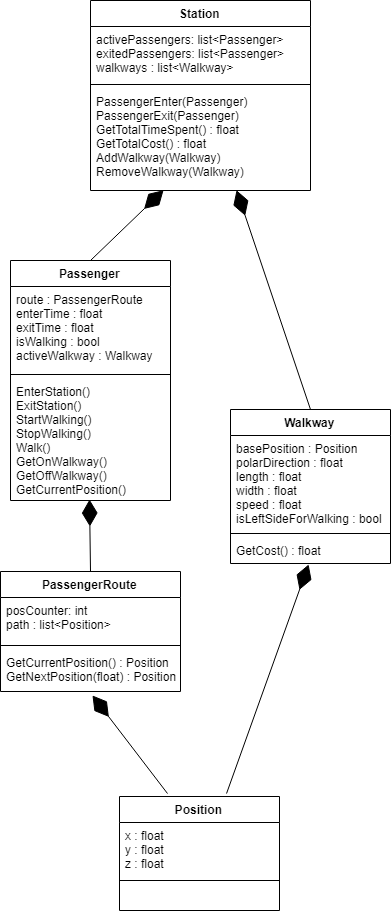
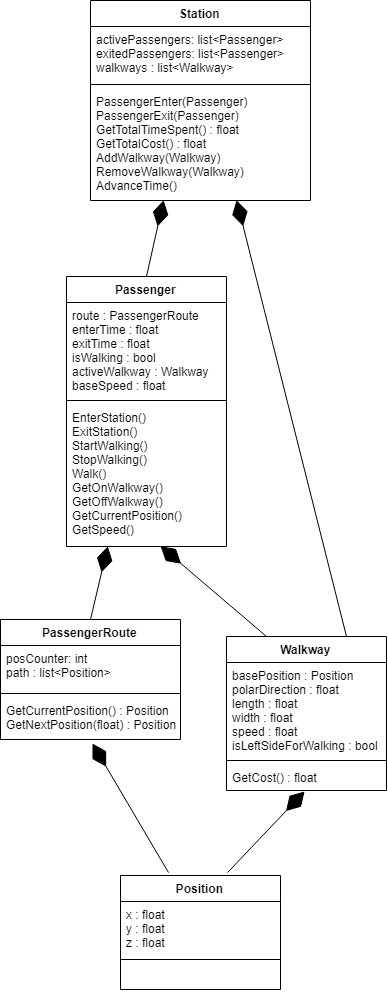
class diagram updated

diff --git a/model/class_diagram.md b/model/class_diagram.md
@@ -1,3 +1,7 @@
-## **C**lass **D**iagram
+## Subway Walkway Model - Class Diagram
 
-![Class diagram](../../images/ClassDiagram.png)
+(remove: provide a description of the current model you describe below)
+
+This model shows how the passengers in the simulation move and the data that is being tracked. As passengers "enter the station" (aka spawned), they are added to an active passengers list. Every frame, time is advanced and passengers move along as at speed that is calculated according to their base speed and speed of the walkway they are on if they are on one. They follow a set route that is determined on passenger spawn. Upon reaching the end of their path, passengers are removed from the active list and added to the exited (inactive) list. Walkways are added by passing in a position and a polar angle value that is then modded by 360 degrees. Their estimated total cost is calculated according to the length and width of the path.
+
+![Class diagram](../images/ClassDiagram.png)
